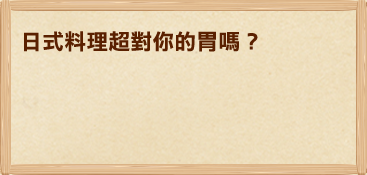
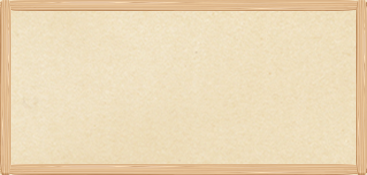
日食專題調整手機板

Changed region(s): [[0.0599, 0.1714, 0.7193, 0.3143]]

diff --git a/publish/jpcuisine/jpcuisine.css b/publish/jpcuisine/jpcuisine.css
@@ -14,28 +14,23 @@
 {
 	background-image:url(/assets/images/publish/jpcuisine/title.gif);
 	background-repeat:no-repeat;
+	background-size: contain;
 	background-color:#f0d7b8;
 }
-.article #subject IMG
-{
-
-}
-
 .article .main-content .intr
 {
 	width:367px;
 	height:178px;
 	float:left;
-}
-.article .main-content .intr .intrimg
-{
-	position:absolute;
+	background-image:url(/assets/images/publish/jpcuisine/intr.png);
+	background-repeat:no-repeat;
+	background-size: contain;
 }
 .article .main-content .intr .intrtxt
 {
-	padding-left:28px;
+	padding-left:25px;
 	padding-right:22px;
-	padding-top:70px;
+	padding-top:15px;
 }
 .article .main-content .sec1, .article .main-content .sec2, .article .main-content .sec3, .article .main-content .sec4, .article .main-content .sec5, .article .main-content .sec6
 {
@@ -83,42 +78,43 @@
 }
 .article .m1
 {
-	height:180px;
+	float:left;
+	height:175px;
 	width:180px;
-	margin-top:-380px;
+	margin-top:-400px;
 }
 .article .m2
 {
-	height:145px;
+	height:140px;
 	width:275px;
-	margin-top:-200px;
+	margin-top:-225px;
 }
 .article .m3
 {
-	height:125px;
+	height:140px;
 	width:185px;
-	margin-top:-180px;
+	margin-top:-225px;
 	margin-left:275px;
 }
 .article .m4
 {
-	height:125px;
+	height:140px;
 	width:185px;
-	margin-top:-180px;
+	margin-top:-225px;
 	margin-left:468px;
 }
 .article .m5
 {
-	height:150px;
+	height:140px;
 	width:285px;
-	margin-top:-205px;
+	margin-top:-225px;
 	margin-left:653px;
 }
 .article .m6
 {
 	height:175px;
 	width:193px;
-	margin-top:-380px;
+	margin-top:-400px;
 	margin-left:745px;
 }
 .article .main-content .boldtxt
@@ -126,10 +122,31 @@
 	font-family: "華康儷細黑";
 	font-weight:700;
 }
-/******PHONE******//*
-@media screen and (min-width: 767px){
-.article #subject .top
+/******PHONE******/
+BODY.xs .article .main-content .intr
 {
-	margin-top:0px;
+	width:100%;
+	height:auto;
+	background-image:url(/assets/images/publish/jpcuisine/intrphone.png);
+	background-repeat:repeat-y;
+	background-size:cover;
 }
-}*/
+BODY.xs .article .main-content .intr .intrtxt
+{
+	padding-top:5px;
+	padding-bottom:5px;
+}
+BODY.xs .article .main-content .sec1, BODY.xs .article .main-content .sec2, BODY.xs .article .main-content .sec4, BODY.xs .article .main-content .sec6, BODY.xs .article .main-content .sec3, BODY.xs .article .main-content .sec5
+{
+	width:100%;
+	margin-top:15px;
+}
+BODY.xs .article .main-content .sec1 .secimg, BODY.xs .article .main-content .sec2 .secimg, BODY.xs .article .main-content .sec3 BODY.xs .secimg, BODY.xs .article .main-content .sec4 .secimg, BODY.xs .article .main-content BODY.xs .sec5 .secimg, BODY.xs .article .main-content .sec6 .secimg
+{
+	width:100%;
+	height:auto;
+}
+BODY.xs .article .m1, BODY.xs .article .m2, BODY.xs .article .m3, BODY.xs .article .m4, BODY.xs .article .m5, BODY.xs .article .m6
+{
+	display:none;
+}
